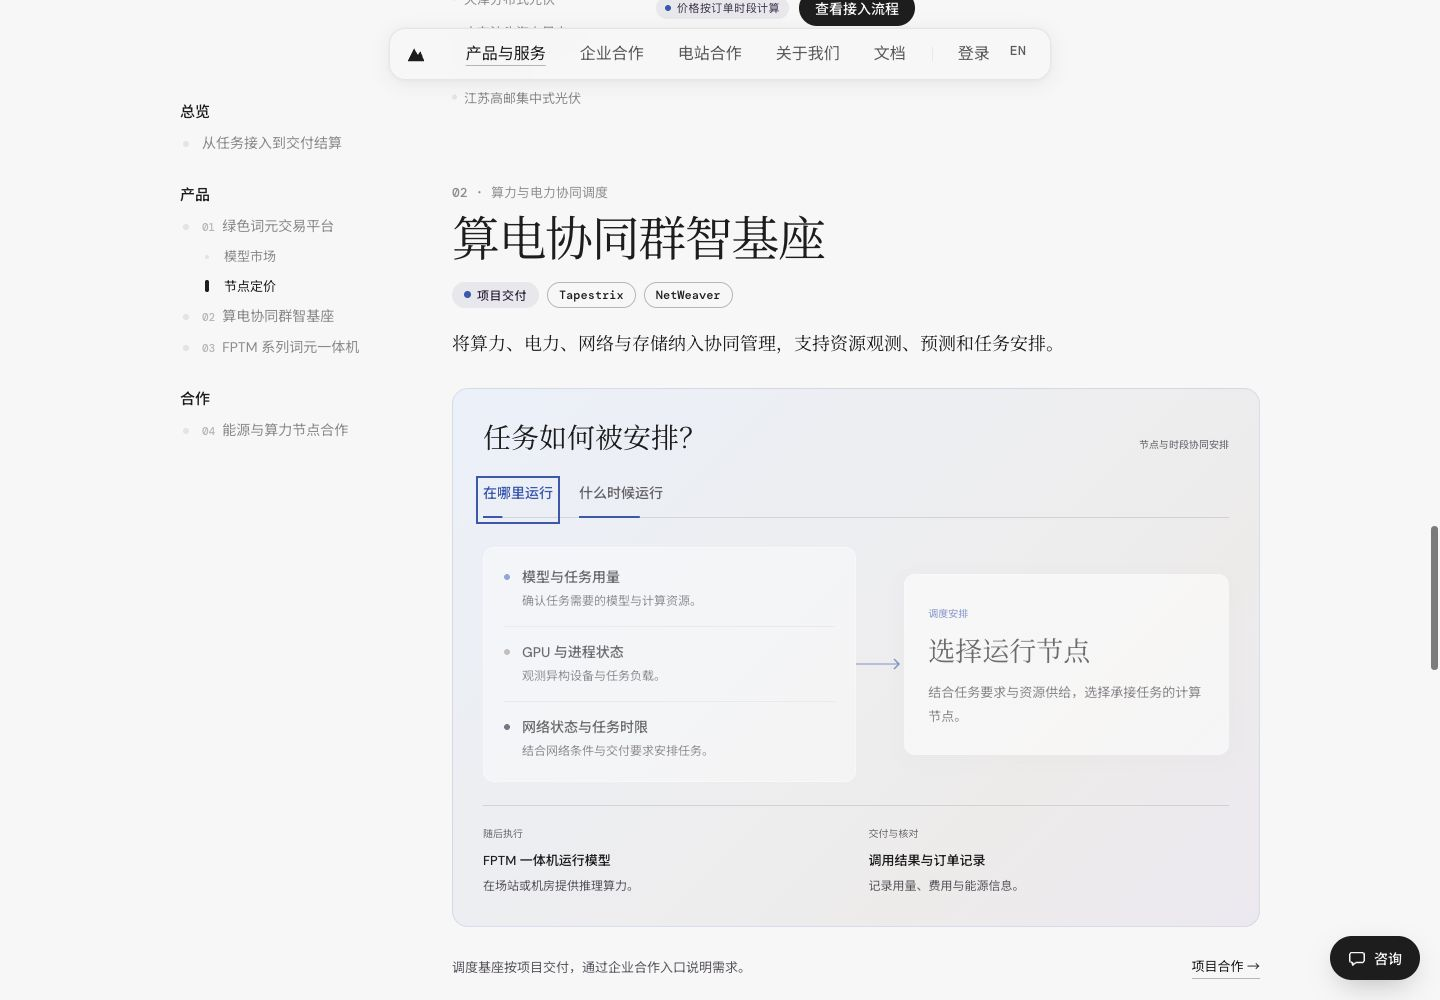
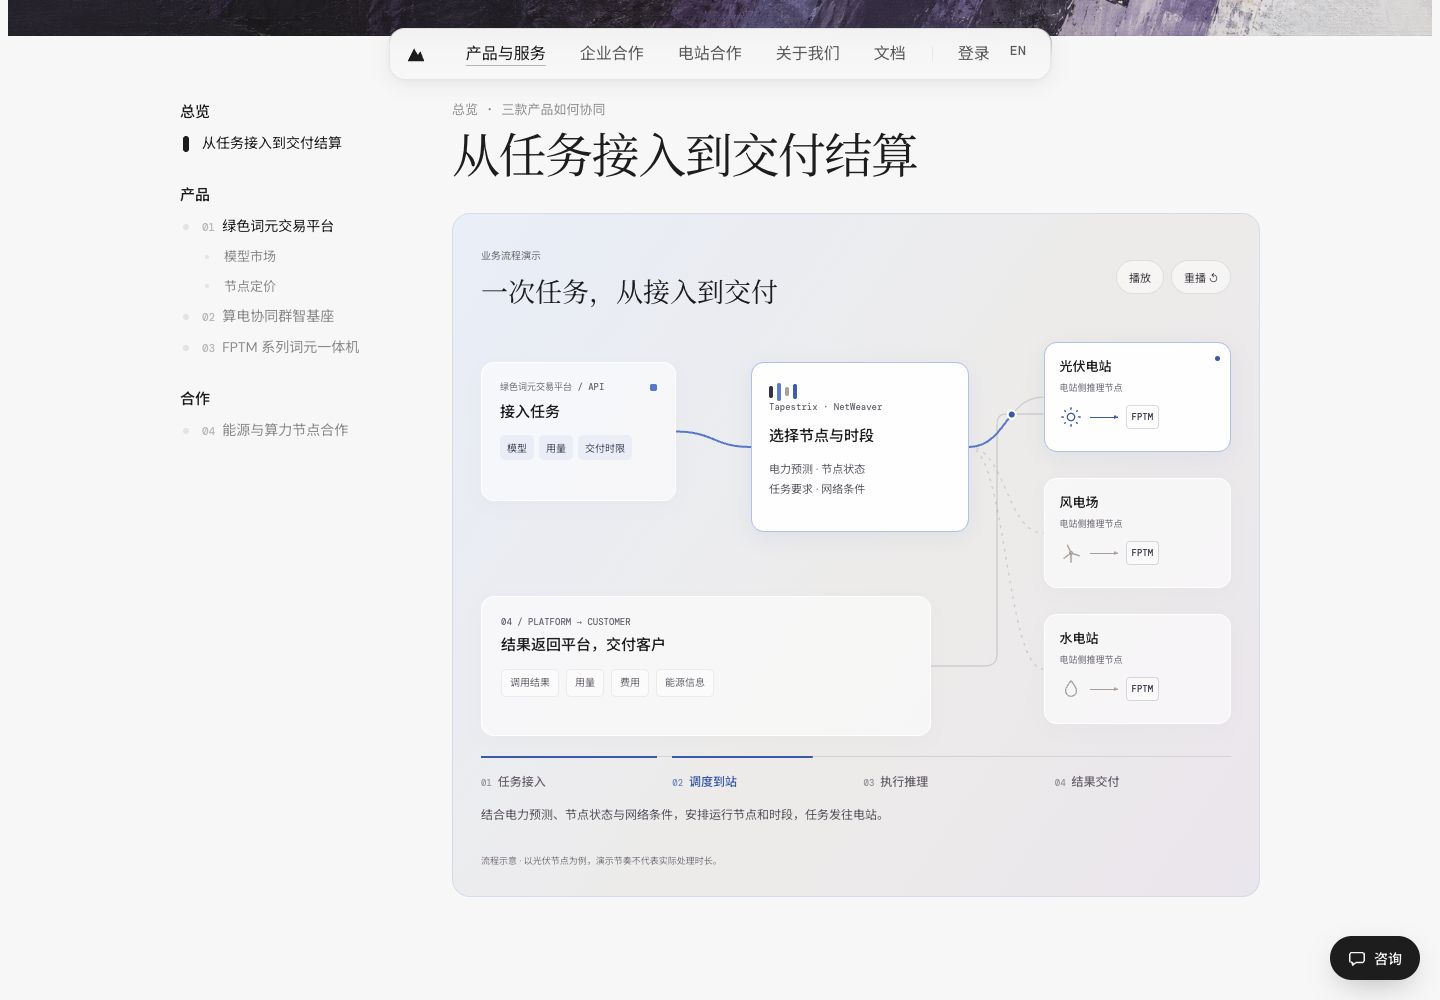
Place animated business flow in product overview and verify responsive playback

diff --git a/index.html b/index.html
@@ -691,8 +691,7 @@ a.sx-a:hover .sxw,a.sx-a:hover .sx-plant{transform:translateY(-2px);background:r
 .bf-result{left:0;bottom:0;width:60%;padding:19px;min-height:140px}.bf-result h4{margin:6px 0 13px}.bf-records{display:flex;gap:7px;flex-wrap:wrap}.bf-records span{font:400 10px/1.4 var(--sans);padding:6px 8px;border:1px solid rgba(61,49,79,.08);border-radius:5px;background:rgba(255,255,255,.45);color:#78727c;transition:background .5s,color .5s}.bf-result.active .bf-records span{color:var(--brand-violet);background:rgba(61,49,79,.06)}
 .bf-steps{display:grid;grid-template-columns:repeat(4,minmax(0,1fr));gap:15px;border-top:1px solid rgba(61,49,79,.13);padding-top:0}.bf-steps button{position:relative;text-align:left;border:0;background:none;padding:15px 0 8px;color:#79727d;font:500 12px var(--sans);cursor:pointer}.bf-steps button:before{content:"";position:absolute;top:-1px;left:0;width:100%;height:2px;background:var(--brand-action);transform:scaleX(var(--phase-progress,0));transform-origin:left}.bf-steps button[aria-current="step"]{color:var(--brand-action)}.bf-steps em{font:400 9px var(--mono);margin-right:6px;opacity:.7}.bf-caption{min-height:39px;margin:7px 0 0;font:400 12px/1.8 var(--sans);color:#655f6a}.bf-caption p{margin:0}.bf-caption [hidden]{display:none}.bf-footnote{display:block;margin-top:10px;font:400 9px/1.6 var(--sans);color:#89818b}.bf-actions button:focus-visible,.bf-steps button:focus-visible{outline:2px solid var(--brand-action);outline-offset:3px}
 .business-flow[data-phase="1"] .bf-router-icon i{opacity:var(--activity,.7)}.business-flow[data-phase="2"] .bf-solar .bf-chip{background:rgba(82,132,215,var(--compute-alpha,.1));border-color:var(--brand-blue)}.business-flow[data-phase="2"] .bf-solar .energy-line:before{content:"";width:4px;height:4px;border-radius:50%;background:var(--brand-action);position:absolute;left:calc(var(--energy-progress,0) * 80%);top:-1.5px}
-.task-project{display:flex;justify-content:space-between;align-items:center;gap:20px;margin-bottom:28px;font:400 13px/1.8 var(--sans);color:#67616a}.task-project p{margin:0}.task-project a{white-space:nowrap;color:var(--brand-carbon)}
-@media(max-width:800px){.business-flow{padding:21px 17px;border-radius:14px}.bf-head{align-items:flex-start;gap:10px}.bf-head h3{font-size:22px;max-width:180px}.bf-head small{font-size:9px}.bf-actions{gap:4px;flex-direction:column}.bf-actions button{font-size:10px;padding:6px 10px}.bf-scene{height:570px;margin:20px 0}.bf-task{top:0;left:7%;width:86%;min-height:103px;padding:15px}.bf-task h4{margin:4px 0 9px}.bf-router{top:148px;left:7%;width:86%;min-height:109px;padding:14px 16px}.bf-router-icon{float:right;margin-top:4px}.bf-router h4{margin:4px 0 8px}.bf-router p{font-size:10px}.bf-station{top:307px;width:30%;height:110px;padding:12px 8px}.bf-solar{left:0;right:auto}.bf-wind{left:35%;right:auto}.bf-hydro{left:70%;right:auto}.bf-station h4{font-size:12px}.bf-station small{font-size:8px}.bf-energy{gap:3px}.bf-energy svg{width:17px;height:17px}.bf-chip{padding:3px;font-size:8px}.bf-result{left:7%;width:86%;bottom:0;min-height:108px;padding:13px}.bf-result h4{font-size:14px;margin:4px 0 9px}.bf-records{gap:4px}.bf-records span{font-size:9px;padding:4px 5px}.bf-steps{gap:9px}.bf-steps button{font-size:11px;line-height:1.6}.bf-steps em{display:block;margin:0 0 3px}.bf-caption{min-height:65px;font-size:11px}.bf-footnote{font-size:8px}.task-project{font-size:12px;align-items:flex-start}}
+@media(max-width:800px){.business-flow{padding:21px 17px;border-radius:14px}.bf-head{align-items:flex-start;gap:10px}.bf-head h3{font-size:22px;max-width:180px}.bf-head small{font-size:9px}.bf-actions{gap:4px;flex-direction:column}.bf-actions button{font-size:10px;padding:6px 10px}.bf-scene{height:570px;margin:20px 0}.bf-task{top:0;left:7%;width:86%;min-height:103px;padding:15px}.bf-task h4{margin:4px 0 9px}.bf-router{top:148px;left:7%;width:86%;min-height:109px;padding:14px 16px}.bf-router-icon{float:right;margin-top:4px}.bf-router h4{margin:4px 0 8px}.bf-router p{font-size:10px}.bf-station{top:307px;width:30%;height:110px;padding:12px 8px}.bf-solar{left:0;right:auto}.bf-wind{left:35%;right:auto}.bf-hydro{left:70%;right:auto}.bf-station h4{font-size:12px}.bf-station small{font-size:8px}.bf-energy{gap:3px}.bf-energy svg{width:17px;height:17px}.bf-chip{padding:3px;font-size:8px}.bf-result{left:7%;width:86%;bottom:0;min-height:108px;padding:13px}.bf-result h4{font-size:14px;margin:4px 0 9px}.bf-records{gap:4px}.bf-records span{font-size:9px;padding:4px 5px}.bf-steps{gap:9px}.bf-steps button{font-size:11px;line-height:1.6}.bf-steps em{display:block;margin:0 0 3px}.bf-caption{min-height:65px;font-size:11px}.bf-footnote{font-size:8px}}
 @media(prefers-reduced-motion:reduce){.business-flow *,.btn,.pill,.sx *,.story-sheet,.story-bar i{animation:none!important;transition:none!important}.btn:hover,.gcard:hover .pv,.sx-a:hover .sx-mark,.sx-a:hover .sx-plant>svg{transform:none}}
 
 </style>
@@ -793,7 +792,19 @@ a.sx-a:hover .sxw,a.sx-a:hover .sx-plant{transform:translateY(-2px);background:r
       <article class="pe" id="p-flow">
         <span class="pe-d">总览 · 三款产品如何协同</span>
         <h2 class="pe-t">从任务接入到交付结算</h2>
-        <div class="pe-grid"><div class="pe-it"><b>接入需求</b><p>客户确认模型、用量与交付时限，平台提供接入、报价和订单管理。</p><span class="pe-by"><i aria-hidden="true"><svg viewBox="0 0 20 20" fill="none" stroke="currentColor" stroke-width="1.25" stroke-linecap="round" stroke-linejoin="round"><path d="M3 5h14v10H3zM7 8l-2 2 2 2M13 8l2 2-2 2M11 7l-2 6"/></svg></i>绿色词元交易平台</span></div><div class="pe-it"><b>调度资源</b><p>结合任务要求、电力预测与节点状态，安排计算资源和运行时段。</p><span class="pe-by"><i aria-hidden="true"><svg viewBox="0 0 20 20" fill="none" stroke="currentColor" stroke-width="1.25" stroke-linecap="round" stroke-linejoin="round"><path d="M3 5h14M3 10h14M3 15h14M6 3v4M13 8v4M8 13v4"/></svg></i>Tapestrix · NetWeaver</span></div><div class="pe-it"><b>执行推理</b><p>部署在场站或机房的 FPTM 一体机运行模型，提供推理算力。</p><span class="pe-by"><i aria-hidden="true"><svg viewBox="0 0 20 20" fill="none" stroke="currentColor" stroke-width="1.25" stroke-linecap="round" stroke-linejoin="round"><path d="M3 3h14v6H3zM3 11h14v6H3zM6 6h1M6 14h1M10 6h4M10 14h4"/></svg></i>FPTM 系列</span></div><div class="pe-it"><b>交付结算</b><p>交付模型调用结果，记录用量、费用与能源信息。</p><span class="pe-by"><i aria-hidden="true"><svg viewBox="0 0 20 20" fill="none" stroke="currentColor" stroke-width="1.25" stroke-linecap="round" stroke-linejoin="round"><path d="M5 2h7l4 4v12H5zM12 2v5h4M8 10h5M8 13h5"/></svg></i>可追溯</span></div></div>
+        <div class="business-flow" id="businessFlow" data-phase="0" aria-label="任务接入、调度、推理与交付流程动画">
+          <div class="bf-head"><div><small>业务流程演示</small><h3>一次任务，从接入到交付</h3></div><div class="bf-actions"><button type="button" data-flow-pause aria-pressed="false">暂停</button><button type="button" data-flow-replay>重播 ↺</button></div></div>
+          <div class="bf-scene">
+            <svg class="bf-wires" aria-hidden="true"><path class="bf-line" data-wire="ingress"/><path class="bf-line" data-wire="solar"/><path class="bf-line signal" data-wire="wind"/><path class="bf-line signal" data-wire="hydro"/><path class="bf-line" data-wire="return"/><path class="bf-track" data-trace="ingress"/><path class="bf-track" data-trace="solar"/><path class="bf-track return" data-trace="return"/><circle class="bf-packet" data-packet="task" r="4"/><circle class="bf-packet" data-packet="wind" r="3"/><circle class="bf-packet" data-packet="hydro" r="3"/><circle class="bf-packet return" data-packet="result" r="4"/></svg>
+            <div class="bf-card bf-task active" data-node="task"><small>绿色词元交易平台 / API</small><h4>接入任务</h4><div class="bf-fields"><span>模型</span><span>用量</span><span>交付时限</span></div></div>
+            <div class="bf-card bf-router" data-node="router"><div class="bf-router-icon" aria-hidden="true"><i></i><i></i><i></i><i></i></div><small>Tapestrix · NetWeaver</small><h4>选择节点与时段</h4><p>电力预测 · 节点状态<br>任务要求 · 网络条件</p></div>
+            <div class="bf-card bf-station bf-solar" data-node="solar"><i class="bf-selected" aria-hidden="true"></i><h4>光伏电站</h4><small>电站侧推理节点</small><div class="bf-energy"><svg viewBox="0 0 24 24" fill="none" stroke="currentColor" stroke-width="1.4" stroke-linecap="round" stroke-linejoin="round" aria-hidden="true"><circle cx="12" cy="12" r="4"/><path d="M12 2v2M12 20v2M2 12h2M20 12h2M5 5l1 1M18 18l1 1M5 19l1-1M18 6l1-1"/></svg><i class="energy-line" aria-hidden="true"></i><span class="bf-chip">FPTM</span></div></div><div class="bf-card bf-station bf-wind" data-node="wind"><i class="bf-selected" aria-hidden="true"></i><h4>风电场</h4><small>电站侧推理节点</small><div class="bf-energy"><svg viewBox="0 0 24 24" fill="none" stroke="currentColor" stroke-width="1.4" stroke-linecap="round" stroke-linejoin="round" aria-hidden="true"><path d="M12 12v10M12 12 8 3M12 12l9 3M12 12l-8 6"/><circle cx="12" cy="12" r="1.5"/></svg><i class="energy-line" aria-hidden="true"></i><span class="bf-chip">FPTM</span></div></div><div class="bf-card bf-station bf-hydro" data-node="hydro"><i class="bf-selected" aria-hidden="true"></i><h4>水电站</h4><small>电站侧推理节点</small><div class="bf-energy"><svg viewBox="0 0 24 24" fill="none" stroke="currentColor" stroke-width="1.4" stroke-linecap="round" stroke-linejoin="round" aria-hidden="true"><path d="M12 3s6 7 6 11a6 6 0 1 1-12 0c0-4 6-11 6-11z"/></svg><i class="energy-line" aria-hidden="true"></i><span class="bf-chip">FPTM</span></div></div>
+            <div class="bf-card bf-result" data-node="result"><small>04 / PLATFORM → CUSTOMER</small><h4>结果返回平台，交付客户</h4><div class="bf-records"><span>调用结果</span><span>用量</span><span>费用</span><span>能源信息</span></div></div>
+          </div>
+          <div class="bf-steps" aria-label="选择演示步骤"><button type="button" data-flow-step="0" aria-current="step"><em>01</em>任务接入</button><button type="button" data-flow-step="1"><em>02</em>调度到站</button><button type="button" data-flow-step="2"><em>03</em>执行推理</button><button type="button" data-flow-step="3"><em>04</em>结果交付</button></div>
+          <div class="bf-caption"><p data-flow-caption="0">客户通过统一 API 提交任务，模型、用量与交付时限进入调度环节。</p><p data-flow-caption="1" hidden>结合电力预测、节点状态与网络条件，安排运行节点和时段，任务发往电站。</p><p data-flow-caption="2" hidden>电站提供电力，FPTM 一体机运行模型，将计算资源用于推理任务。</p><p data-flow-caption="3" hidden>推理结果返回客户，平台记录本次调用的用量、费用与能源信息。</p></div>
+          <small class="bf-footnote">流程示意 · 以光伏节点为例，演示节奏不代表实际处理时长。</small>
+        </div>
       </article>
 
       <article class="pe" id="p-api">
@@ -828,20 +839,7 @@ a.sx-a:hover .sxw,a.sx-a:hover .sx-plant{transform:translateY(-2px);background:r
         <h2 class="pe-t">算电协同群智基座</h2>
         <div class="pe-tags"><span class="tg pk"><i aria-hidden="true"></i>项目交付</span><span class="tg ln">Tapestrix</span><span class="tg ln">NetWeaver</span></div>
         <p class="pe-lead">将算力、电力、网络与存储纳入协同管理，支持资源观测、预测和任务安排。</p>
-        <div class="business-flow" id="businessFlow" data-phase="0" aria-label="任务接入、调度、推理与交付流程动画">
-          <div class="bf-head"><div><small>业务流程演示</small><h3>一次任务，从接入到交付</h3></div><div class="bf-actions"><button type="button" data-flow-pause aria-pressed="false">暂停</button><button type="button" data-flow-replay>重播 ↺</button></div></div>
-          <div class="bf-scene">
-            <svg class="bf-wires" aria-hidden="true"><path class="bf-line" data-wire="ingress"/><path class="bf-line" data-wire="solar"/><path class="bf-line signal" data-wire="wind"/><path class="bf-line signal" data-wire="hydro"/><path class="bf-line" data-wire="return"/><path class="bf-track" data-trace="ingress"/><path class="bf-track" data-trace="solar"/><path class="bf-track return" data-trace="return"/><circle class="bf-packet" data-packet="task" r="4"/><circle class="bf-packet" data-packet="wind" r="3"/><circle class="bf-packet" data-packet="hydro" r="3"/><circle class="bf-packet return" data-packet="result" r="4"/></svg>
-            <div class="bf-card bf-task active" data-node="task"><small>01 / API REQUEST</small><h4>接入任务</h4><div class="bf-fields"><span>模型</span><span>用量</span><span>交付时限</span></div></div>
-            <div class="bf-card bf-router" data-node="router"><div class="bf-router-icon" aria-hidden="true"><i></i><i></i><i></i><i></i></div><small>Tapestrix · NetWeaver</small><h4>选择节点与时段</h4><p>电力预测 · 节点状态<br>任务要求 · 网络条件</p></div>
-            <div class="bf-card bf-station bf-solar" data-node="solar"><i class="bf-selected" aria-hidden="true"></i><h4>光伏电站</h4><small>电站侧推理节点</small><div class="bf-energy"><svg viewBox="0 0 24 24" fill="none" stroke="currentColor" stroke-width="1.4" stroke-linecap="round" stroke-linejoin="round" aria-hidden="true"><circle cx="12" cy="12" r="4"/><path d="M12 2v2M12 20v2M2 12h2M20 12h2M5 5l1 1M18 18l1 1M5 19l1-1M18 6l1-1"/></svg><i class="energy-line" aria-hidden="true"></i><span class="bf-chip">FPTM</span></div></div><div class="bf-card bf-station bf-wind" data-node="wind"><i class="bf-selected" aria-hidden="true"></i><h4>风电场</h4><small>电站侧推理节点</small><div class="bf-energy"><svg viewBox="0 0 24 24" fill="none" stroke="currentColor" stroke-width="1.4" stroke-linecap="round" stroke-linejoin="round" aria-hidden="true"><path d="M12 12v10M12 12 8 3M12 12l9 3M12 12l-8 6"/><circle cx="12" cy="12" r="1.5"/></svg><i class="energy-line" aria-hidden="true"></i><span class="bf-chip">FPTM</span></div></div><div class="bf-card bf-station bf-hydro" data-node="hydro"><i class="bf-selected" aria-hidden="true"></i><h4>水电站</h4><small>电站侧推理节点</small><div class="bf-energy"><svg viewBox="0 0 24 24" fill="none" stroke="currentColor" stroke-width="1.4" stroke-linecap="round" stroke-linejoin="round" aria-hidden="true"><path d="M12 3s6 7 6 11a6 6 0 1 1-12 0c0-4 6-11 6-11z"/></svg><i class="energy-line" aria-hidden="true"></i><span class="bf-chip">FPTM</span></div></div>
-            <div class="bf-card bf-result" data-node="result"><small>04 / PLATFORM → CUSTOMER</small><h4>结果返回平台，交付客户</h4><div class="bf-records"><span>调用结果</span><span>用量</span><span>费用</span><span>能源信息</span></div></div>
-          </div>
-          <div class="bf-steps" aria-label="选择演示步骤"><button type="button" data-flow-step="0" aria-current="step"><em>01</em>任务接入</button><button type="button" data-flow-step="1"><em>02</em>调度到站</button><button type="button" data-flow-step="2"><em>03</em>执行推理</button><button type="button" data-flow-step="3"><em>04</em>结果交付</button></div>
-          <div class="bf-caption"><p data-flow-caption="0">客户通过统一 API 提交任务，模型、用量与交付时限进入调度环节。</p><p data-flow-caption="1" hidden>结合电力预测、节点状态与网络条件，安排运行节点和时段，任务发往电站。</p><p data-flow-caption="2" hidden>电站提供电力，FPTM 一体机运行模型，将计算资源用于推理任务。</p><p data-flow-caption="3" hidden>推理结果返回客户，平台记录本次调用的用量、费用与能源信息。</p></div>
-          <small class="bf-footnote">流程示意 · 以光伏节点为例，演示节奏不代表实际处理时长。</small>
-        </div>
-        <div class="task-project"><p>调度基座按项目交付，通过企业合作入口说明需求。</p><a class="ul" href="#enterprise">项目合作 →</a></div>
+        <div class="pe-grid"><div class="pe-it"><b>算力集群管理</b><p>观测 GPU 与进程状态，管理异构资源，并结合任务负载评估能耗。</p><span class="pe-by"><i aria-hidden="true"><svg viewBox="0 0 20 20" fill="none" stroke="currentColor" stroke-width="1.25" stroke-linecap="round" stroke-linejoin="round"><path d="M5 5h10v10H5zM8 8h4v4H8zM7 2v3M13 2v3M7 15v3M13 15v3M2 7h3M2 13h3M15 7h3M15 13h3"/></svg></i>智能体一</span></div><div class="pe-it"><b>电力资源管理</b><p>结合场站数据预测发电与用电条件，为成本评估和任务安排提供依据。</p><span class="pe-by"><i aria-hidden="true"><svg viewBox="0 0 20 20" fill="none" stroke="currentColor" stroke-width="1.25" stroke-linecap="round" stroke-linejoin="round"><path d="M11 2 4 11h5l-1 7 8-10h-6z"/></svg></i>智能体二</span></div><div class="pe-it"><b>算电协同调度</b><p>根据任务时限、网络状态与资源供给，选择合适节点并协调任务运行。</p><span class="pe-by"><i aria-hidden="true"><svg viewBox="0 0 20 20" fill="none" stroke="currentColor" stroke-width="1.25" stroke-linecap="round" stroke-linejoin="round"><path d="M3 5h14M3 10h14M3 15h14M6 3v4M13 8v4M8 13v4"/></svg></i>智能体三</span></div><div class="pe-it"><b>按项目交付</b><p>调度基座按项目交付，通过企业合作入口说明需求。<a class="ul" href="#enterprise">项目合作 →</a></p><span class="pe-by"><i aria-hidden="true"><svg viewBox="0 0 20 20" fill="none" stroke="currentColor" stroke-width="1.25" stroke-linecap="round" stroke-linejoin="round"><path d="M5 2h7l4 4v12H5zM12 2v5h4M8 10h5M8 13h5"/></svg></i>项目合作</span></div></div>
         <div class="pe-sub"><h3>应用场景</h3><span class="caps"><i>算力中心任务调度</i><i>GPU 集群能耗预测</i><i>AI 任务跨空间调度</i><i>光伏电站发电量预测</i><i>电价变化预测</i><i>光伏电站群智观测</i><i>算力任务跨电站调度</i><i>网络时延协同管理</i></span></div>
       </article>
 

diff --git a/README.md b/README.md
@@ -42,9 +42,11 @@
 
 ## 2026-10-14 业务流程动画
 
+- 动画放在“产品总览 → 从任务接入到交付结算”，替换静态总览卡片。调度基座下恢复具体产品职责说明与项目入口。
 - 将文字切换改为连续业务动画：统一 API 接入 → 调度条件汇入、任务发往电站 → 电力驱动 FPTM 推理 → 结果返回平台并交付客户，记录用量、费用与能源信息。
 - 路径以光伏节点为例；风电、水电表示其他能源类型。标明流程示意，未模拟真实节点选择、处理时长或运营数据。
 - 保留原字体与晨蓝、暖灰、紫灰、近黑色卡；使用 Dia 式浅色环境、半透明白色卡片、细线与小型任务光点。SVG 连接线按实际卡片位置计算，手机端纵向排列。
 - 一个原生 JavaScript 时间轴驱动 16 秒循环的路径、任务包、节点强调、算力脉冲、进度与字幕。支持暂停、重播、点击步骤定位；后台、离屏和系统减少动态效果时停止自动播放。无新增动画库。
 - 原项目合作入口、应用场景、首页动效、字体变量、业务数组、链接与表单地址保持不变。只修改本地副本。
 - 截图沿用 qa/motion-desktop-2026-10-14.png、qa/motion-mobile-2026-10-14.png。
+- 核查：1440px 桌面与 390px 手机无横向溢出；自动播放实际跨阶段推进，暂停后位置和阶段保持不变；重播、四步定位、键盘 Enter、结果回传路径通过；浏览器无脚本错误。字体、链接、表单与业务数组对照 0bd0393 一致。减少动态效果已做代码核对。
